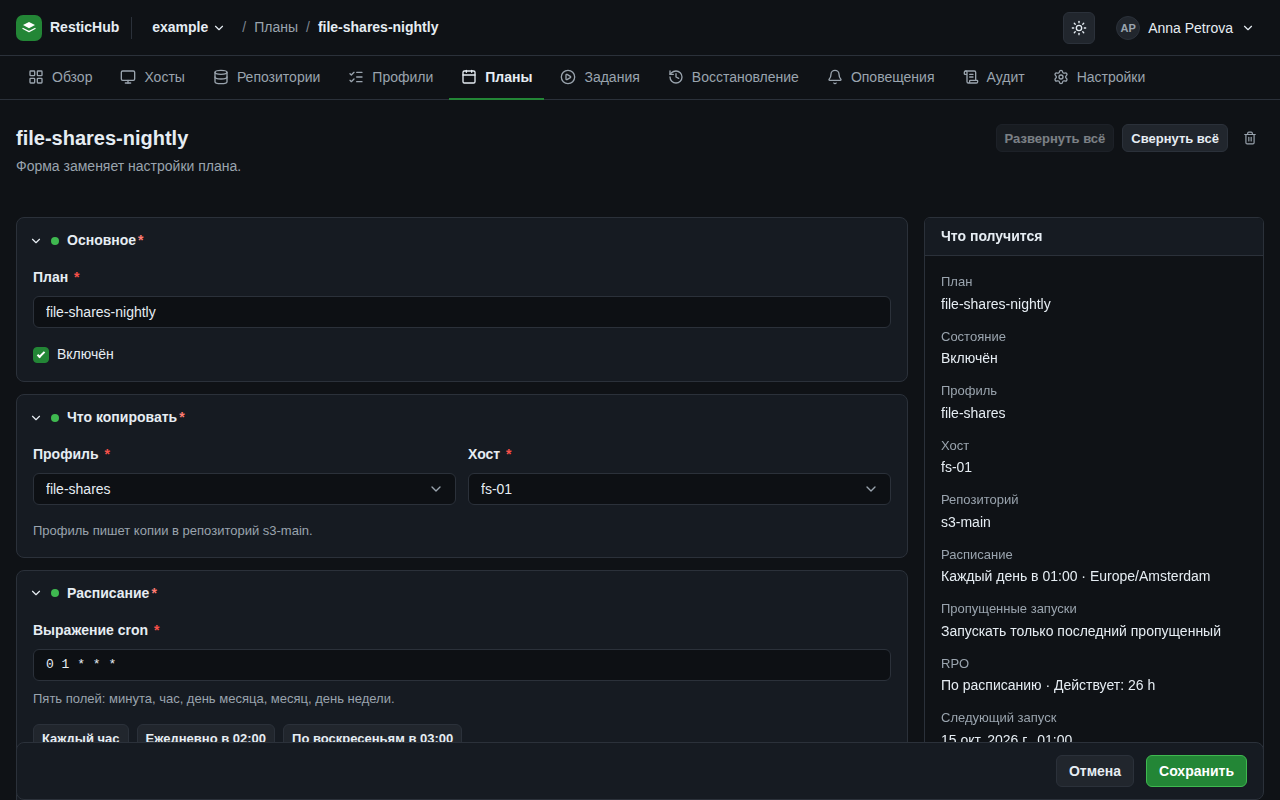
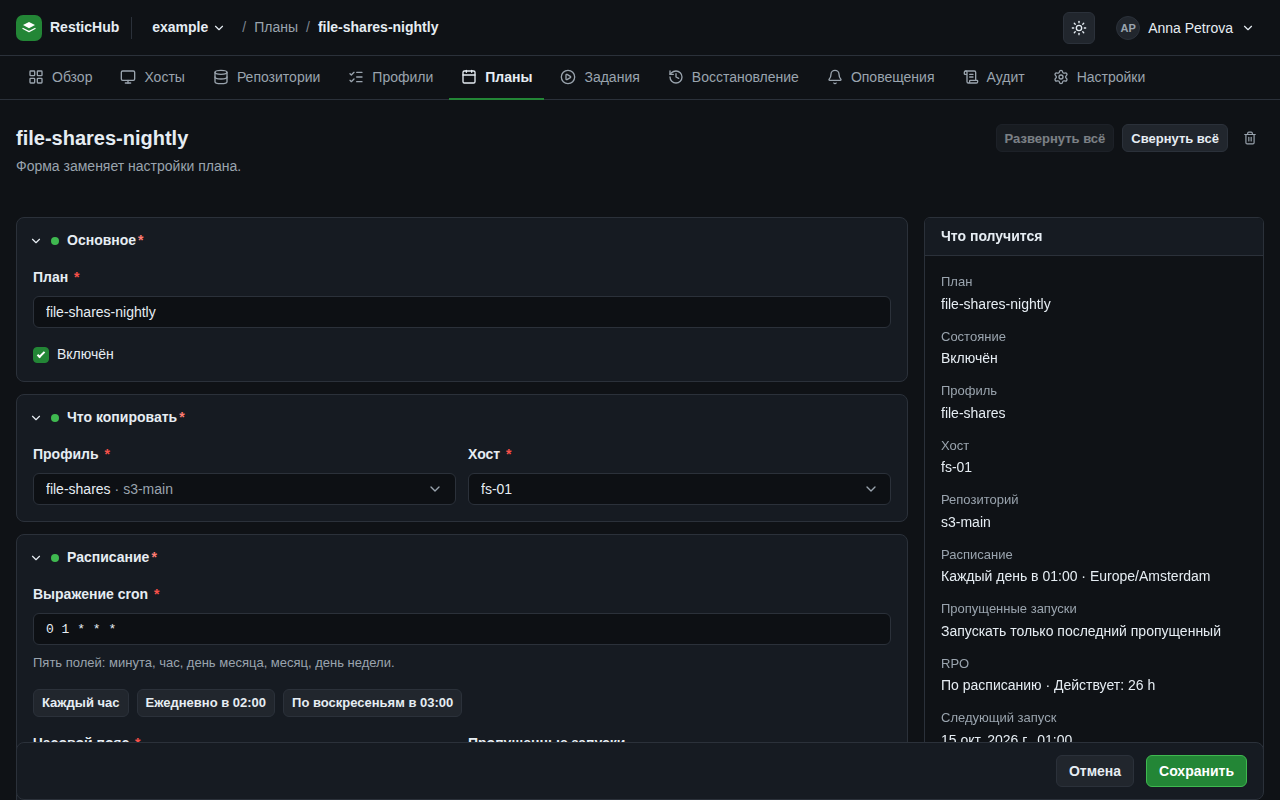
test(ui): the profile picker in e2e, captures and documentation frames

Changed region(s): [[0.0312, 0.7812, 0.375, 0.9375], [0.0312, 0.6562, 0.25, 0.75], [0.0938, 0.5938, 0.125, 0.625]]

diff --git a/ui/e2e/profile-picker-capture.spec.ts b/ui/e2e/profile-picker-capture.spec.ts
@@ -1,0 +1,86 @@
+import { expect, test, type Page } from '@playwright/test';
+import { mkdirSync } from 'node:fs';
+
+// Captures the profile picker on the plan page and in the profile facet of the plan list for a
+// review. It runs only with CAPTURE and CAPTURE_DIR set, so CI skips it.
+const dir = process.env.CAPTURE_DIR;
+test.skip(!process.env.CAPTURE || !dir, 'set CAPTURE and CAPTURE_DIR to write the screenshots');
+
+const out = dir as string;
+
+type Labels = { nav: string; plans: string; addPlan: string; save: string; find: string };
+
+const EN: Labels = {
+	nav: 'Primary navigation',
+	plans: 'Plans',
+	addPlan: 'Add plan',
+	save: 'Save',
+	find: 'Find: Profile'
+};
+
+const RU: Labels = {
+	nav: 'Основная навигация',
+	plans: 'Планы',
+	addPlan: 'Добавить план',
+	save: 'Сохранить',
+	find: 'Найти: Профиль'
+};
+
+async function start(page: Page, labels: Labels, locale: 'en' | 'ru'): Promise<void> {
+	await page.setViewportSize({ width: 1280, height: 860 });
+	await page.addInitScript((locale) => {
+		for (const key of ['agents', 'profiles', 'repositories', 'plans', 'backends']) {
+			localStorage.setItem(`restichub.mock.${key}`, 'sample');
+		}
+		localStorage.setItem('restichub.locale', locale);
+	}, locale);
+	await page.goto('/sign-in');
+	await page.locator('#signin-username').fill('admin');
+	await page.locator('#signin-password').fill('secret');
+	await page.locator('form button[type="submit"]').click();
+	await expect(page.getByRole('navigation', { name: labels.nav })).toBeVisible();
+	await page
+		.getByRole('navigation', { name: labels.nav })
+		.getByRole('link', { name: labels.plans, exact: true })
+		.click();
+	await page.getByRole('heading', { level: 1, name: labels.plans }).waitFor();
+}
+
+async function addPlan(page: Page, labels: Labels, name: string, profile: string): Promise<void> {
+	await page.getByRole('button', { name: labels.addPlan, exact: true }).click();
+	await page.locator('#plan-name').fill(name);
+	await page.locator('#plan-profile').click();
+	await page.getByRole('option', { name: profile }).click();
+	await page.locator('#plan-cron').fill('0 3 * * *');
+	await page.getByRole('button', { name: labels.save, exact: true }).click();
+	await page.getByRole('link', { name, exact: true }).waitFor();
+}
+
+for (const [labels, locale] of [
+	[RU, 'ru'],
+	[EN, 'en']
+] as const) {
+	test(`capture the profile picker in ${locale}`, async ({ page }) => {
+		mkdirSync(out, { recursive: true });
+		await start(page, labels, locale);
+
+		await page.getByRole('button', { name: labels.addPlan, exact: true }).click();
+		await page.locator('#plan-profile').click();
+		await page.getByRole('listbox').getByRole('option').first().waitFor();
+		await page.screenshot({ path: `${out}/1-plan-picker-open-${locale}.png` });
+
+		await page.getByRole('combobox', { name: labels.find }).fill('offsite');
+		await expect(page.getByRole('listbox').getByRole('option')).toHaveCount(1);
+		await page.screenshot({ path: `${out}/2-plan-picker-search-${locale}.png` });
+
+		await page.keyboard.press('Escape');
+		await page.goBack();
+		await addPlan(page, labels, 'files-rest', 'win-files');
+		await addPlan(page, labels, 'nas-nightly', 'nas-files');
+		await page
+			.getByRole('button', { name: new RegExp(`^${locale === 'ru' ? 'Профиль' : 'Profile'}`) })
+			.click();
+		await page.getByText('nas-local').first().waitFor();
+		await page.screenshot({ path: `${out}/3-plans-filter-${locale}.png` });
+	});
+}

diff --git a/ui/src/lib/api/mock.ts b/ui/src/lib/api/mock.ts
@@ -182,6 +182,16 @@ const SAMPLE_PLANS_KEY = 'restichub.mock.plans';
 // see a profile with scripts, its plan and a finished job with a log for each step (FR-HK-11).
 const SAMPLE_SCRIPTS_KEY = 'restichub.mock.scripts';
 
+// A review capture sets this storage key, besides the profile and the repository keys, to see a
+// profile on each backend kind: S3, REST and a local path.
+const SAMPLE_BACKENDS_KEY = 'restichub.mock.backends';
+
+function backendsSample(): boolean {
+	return (
+		typeof localStorage !== 'undefined' && localStorage.getItem(SAMPLE_BACKENDS_KEY) === 'sample'
+	);
+}
+
 function scriptsSample(): boolean {
 	return (
 		typeof localStorage !== 'undefined' && localStorage.getItem(SAMPLE_SCRIPTS_KEY) === 'sample'
@@ -367,7 +377,22 @@ function makeRepositories(): Repository[] {
 			lock_state: 'stale',
 			last_check: { finished_at: iso(60 * 24 * 6), result: 'passed' },
 			snapshot_count: 62
-		})
+		}),
+		...(backendsSample()
+			? [
+					repository(
+						'r_3',
+						'rest-main',
+						{ kind: 'rest', endpoint: 'https://rest.example.net' },
+						'2',
+						{
+							lock_state: 'free',
+							last_check: { finished_at: iso(60 * 24), result: 'passed' },
+							snapshot_count: 31
+						}
+					)
+				]
+			: [])
 	];
 }
 
@@ -462,7 +487,22 @@ function makeProfiles(): Profile[] {
 			updated_at: iso(60 * 6),
 			created_by: 'u_01'
 		}
-	].filter((item) => item.id !== 'p_3' || scriptsSample());
+	]
+		.filter((item) => item.id !== 'p_3' || scriptsSample())
+		.flatMap((item) =>
+			backendsSample() && item.id === 'p_2'
+				? [
+						{ ...item, repository_id: 'r_3' },
+						{
+							...item,
+							id: 'p_4',
+							name: 'nas-files',
+							repository_id: 'r_2',
+							paths: { all: ['/srv/files'], windows: [], linux: [], macos: [] }
+						}
+					]
+				: [item]
+		);
 }
 
 /// The sample scripts of the profile `db-nightly`: a check and a dump before the backup, and a

diff --git a/ui/e2e/plans.spec.ts b/ui/e2e/plans.spec.ts
@@ -15,6 +15,7 @@ async function seed(page: Page): Promise<void> {
 	await page.addInitScript(() => {
 		localStorage.setItem('restichub.mock.agents', 'sample');
 		localStorage.setItem('restichub.mock.profiles', 'sample');
+		localStorage.setItem('restichub.mock.repositories', 'sample');
 	});
 }
 
@@ -35,7 +36,13 @@ test('the plans screen creates and deletes a plan', async ({ page }) => {
 	await expect(page.getByRole('heading', { level: 1, name: 'New plan' })).toBeVisible();
 	await expect(page).toHaveTitle(`New plan · ResticHub`);
 	await page.locator('#plan-name').fill('nightly-web');
-	await page.locator('#plan-profile').selectOption({ label: 'web-daily' });
+	// The profile field shows where each profile writes and finds a profile by its repository.
+	await page.locator('#plan-profile').click();
+	await page.getByRole('combobox', { name: 'Find: Profile' }).fill('offsite');
+	const option = page.getByRole('option', { name: 'web-daily' });
+	await expect(option).toContainText('offsite-s3');
+	await option.click();
+	await expect(page.locator('#plan-profile')).toContainText('web-daily · offsite-s3');
 	await page.locator('#plan-agent').selectOption({ label: 'win-fs01' });
 	await page.locator('#plan-cron').fill('0 2 * * *');
 	await page.locator('#plan-time-zone').fill('Europe/Berlin');

diff --git a/ui/e2e/plans-capture.spec.ts b/ui/e2e/plans-capture.spec.ts
@@ -82,7 +82,8 @@ async function capture(
 	// The new plan page with the next runs of the form schedule.
 	await page.getByRole('button', { name: labels.addPlan, exact: true }).click();
 	await page.locator('#plan-name').fill('nightly-db');
-	await page.locator('#plan-profile').selectOption({ index: 1 });
+	await page.locator('#plan-profile').click();
+	await page.getByRole('listbox').getByRole('option').nth(1).click();
 	await page.locator('#plan-cron').fill('30 3 * * *');
 	await page.locator('#plan-time-zone').fill('Europe/Berlin');
 	await page.locator('.runs li').first().waitFor();

diff --git a/docs/src/content/docs/ru/concepts/plans.md b/docs/src/content/docs/ru/concepts/plans.md
@@ -10,7 +10,7 @@ description: Назначение профиля на хост по распис
 | Поле | Значение |
 |---|---|
 | Имя | Имя плана. Уникально в организации. |
-| Профиль | Описание резервного копирования, из которого сервер управления собирает каждое задание. |
+| Профиль | Описание резервного копирования, из которого сервер управления собирает каждое задание. В поле видны репозиторий каждого профиля и тип хранилища. Для локального репозитория видно также хост репозитория. Поиск находит профиль по имени профиля или репозитория. |
 | Хост | Агент, который выполняет план. |
 | Выражение cron | Пять полей: минута, час, день месяца, месяц, день недели. |
 | Часовой пояс | Имя IANA, например `Europe/Berlin`. |

diff --git a/ui/COMPONENTS.md b/ui/COMPONENTS.md
@@ -169,7 +169,7 @@ To keep the filters in the query string, use `queryFilters(keys)` from `$lib/sto
 
 `SelectOption` does not have a secondary line, because a native `<select>` cannot show one. A facet of `FilterBar` takes the same secondary line in `FilterOption.description`. Set `search: true` on the facet to show the search field when the facet has fewer than seven values.
 
-`ProfilePicker` (`$lib/components`) is a `RecordPicker` for a profile. It makes the options from the profiles, the repositories and the hosts: the profile name, the repository name, a chip with the backend kind and, for a local repository, the host of the repository. `profileDescription` in `$lib/profile-picker.ts` gives the same secondary line for a facet.
+`ProfilePicker` (`$lib/components`) is a `RecordPicker` for a profile. It makes the options from the profiles, the repositories and the hosts. An option shows the profile name, the repository name and a chip with the backend kind. For a local repository, it also shows the repository host. `profileDescription` in `$lib/profile-picker.ts` gives the same secondary line for a facet.
 
 ## Forms
 

diff --git a/docs/src/content/docs/concepts/plans.md b/docs/src/content/docs/concepts/plans.md
@@ -10,7 +10,7 @@ A plan assigns one profile to one agent with a schedule. The control plane keeps
 | Field | Meaning |
 |---|---|
 | Name | The name of the plan. It is unique in the tenant. |
-| Profile | The backup definition that the control plane compiles for each job. |
+| Profile | The backup definition that the control plane compiles for each job. The field shows the repository of each profile and the backend kind. For a local repository, it also shows the repository host. The search finds a profile by its name or by its repository. |
 | Host | The agent that runs the plan. |
 | Cron expression | Five fields: minute, hour, day of month, month, day of week. |
 | Time zone | An IANA name, for example `Europe/Berlin`. |
